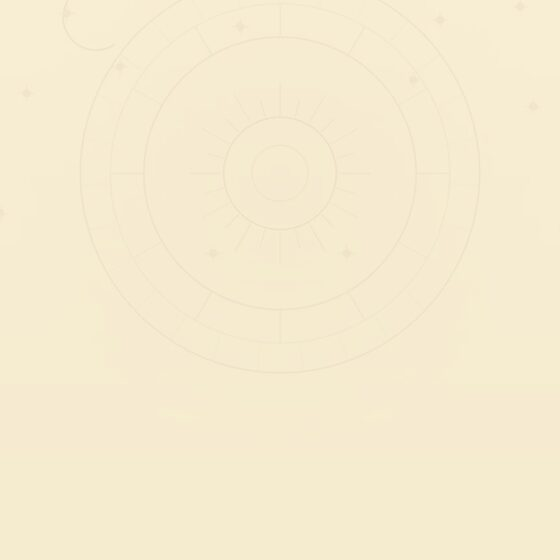
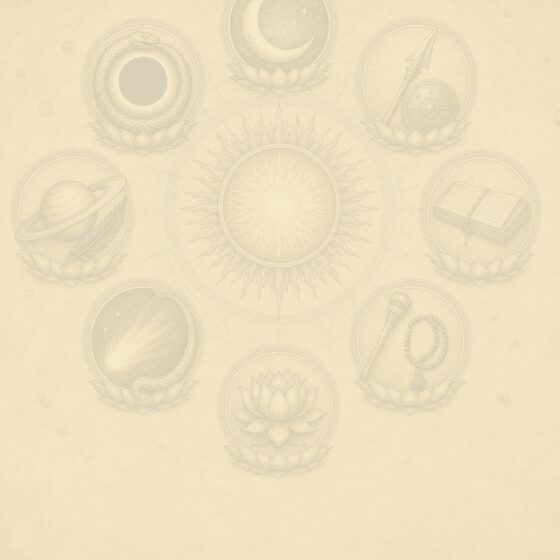
Widgets: Navagraha art for Panchang, per-source wash
The celestial-almanac sketch was so pale it vanished behind the Panchang
widget's text. Switch to the Navagraha sketch, and let a source set its
own lighter wash (18%) so darker art still clears the 4.5:1 text gate.

Claude-Session: https://claude.ai/code/session_01WMtQQBBQnW4wEPpAHEfb1T

diff --git a/mobile/src/widgets/catalog.ts b/mobile/src/widgets/catalog.ts
@@ -73,10 +73,14 @@ export const WIDGET_BACKGROUND_DIMENSIONS: Record<WidgetBackgroundSize, readonly
   large: [560, 560],
 };
 
-/** The source sketch (in `assets/backgrounds/`) each content's plates are cut from, and where its subject sits vertically. */
-export const WIDGET_BACKGROUND_SOURCES: Record<WidgetContent, { file: string; focusY: number }> = {
+/**
+ * The source sketch (in `assets/backgrounds/`) each content's plates are cut from,
+ * where its subject sits vertically, and — for a darker sketch — a lighter wash than
+ * the generator's default so it still clears the 4.5:1 text gate.
+ */
+export const WIDGET_BACKGROUND_SOURCES: Record<WidgetContent, { file: string; focusY: number; wash?: number }> = {
   verse: { file: 'deity-krishna-bansuri.webp', focusY: 0.32 },
-  panchang: { file: 'panchang-celestial-almanac.webp', focusY: 0.34 },
+  panchang: { file: 'deity-navagraha-icons.webp', focusY: 0.5, wash: 0.18 },
   japam: { file: 'category-japam-mala.webp', focusY: 0.55 },
 };
 

diff --git a/design.md b/design.md
@@ -2809,7 +2809,7 @@ because they are different concerns that happen to agree today.
 
 **Native targets.** A real WidgetKit **app extension** target (`VedanshWidgets`, bundle id `…vedansh.widgets`, iOS 16+) generated by the CNG config plugins (`mobile/plugins/withHomeWidgets.js`, `withHomeWidgetsIos.js`, sources under `mobile/plugins/home-widgets/`), with App Group entitlements on both app + extension and the four-language serif faces (Noto Serif Devanagari/Gujarati/Kannada + Inter, 500/600) copied into the extension. Android ships an AppWidget provider + RemoteViews under the same plugin. `mobile/ios/` is prebuild output (gitignored) — the plugin is the source of truth.
 
-**Background art — one plate per size, flat parchment on any doubt (Oct 2026).** Every home-screen cell draws a faded sketch from the app's own `assets/backgrounds/` behind its text: Verse → `deity-krishna-bansuri`, Panchang → `panchang-celestial-almanac`, Japam → `category-japam-mala`. Each (content, size) has its **own pre-cropped plate** — small 256×256, wide 560×260, large 560×560 — so no platform stretches a square onto a wide card. `scripts/build-widget-backgrounds.mts` (ImageMagick) cuts them into `mobile/assets/widget-backgrounds/vedansh_widget_bg_<content>_<size>.jpg`. It removes the sketch's burnt border (8 % inset), centres the crop on the subject (`WIDGET_BACKGROUND_SOURCES.focusY`), and washes the sketch onto `parchmentSoft` at 22 %. The plates are therefore opaque and need no runtime overlay. The script refuses to write a plate where `ink`/`inkMuted`/`saffronDeep` fall below **4.5:1** on its darkest glyph-sized area; the shipped worst case is `inkMuted` at 4.64:1. Sizes and sources live once in `widgets/catalog.ts` (`WIDGET_BACKGROUND_DIMENSIONS`, `widgetBackgroundPlates()`). Lock Screen families get no art.
+**Background art — one plate per size, flat parchment on any doubt (Oct 2026).** Every home-screen cell draws a faded sketch from the app's own `assets/backgrounds/` behind its text: Verse → `deity-krishna-bansuri`, Panchang → `deity-navagraha-icons` (the sun, moon and planets a Panchang reckons by; the earlier `panchang-celestial-almanac` was too pale to read as art), Japam → `category-japam-mala`. Each (content, size) has its **own pre-cropped plate** — small 256×256, wide 560×260, large 560×560 — so no platform stretches a square onto a wide card. `scripts/build-widget-backgrounds.mts` (ImageMagick) cuts them into `mobile/assets/widget-backgrounds/vedansh_widget_bg_<content>_<size>.jpg`. It removes the sketch's burnt border (8 % inset), centres the crop on the subject (`WIDGET_BACKGROUND_SOURCES.focusY`), and washes the sketch onto `parchmentSoft` at 22 % (a darker sketch sets its own lighter `wash` — Navagraha 18 %). The plates are therefore opaque and need no runtime overlay. The script refuses to write a plate where `ink`/`inkMuted`/`saffronDeep` fall below **4.5:1** on its darkest glyph-sized area; the shipped worst case is `inkMuted` at 4.62:1 (Panchang large). Sizes and sources live once in `widgets/catalog.ts` (`WIDGET_BACKGROUND_DIMENSIONS`, `widgetBackgroundPlates()`). Lock Screen families get no art.
 - **The art is optional everywhere, and every failure falls back to the shipped flat card.** iOS (`WidgetArt` in `VedanshWidgets.swift`) loads the plate from the extension bundle only for `systemSmall/Medium/Large`, only in `widgetRenderingMode == .fullColor` (iOS 18 tinted Home Screen and StandBy-at-night keep plain parchment), and only behind real content. Recovery/refresh cards stay plain. A missing or undecodable file, or one over the family's pixel budget (= the plate's own size), returns nil. That budget matters: WidgetKit refuses to archive an image larger than the cell's pixel area and the whole widget renders blank, so each plate stays under the smallest iOS 16 cell of its family at @2x. Android layouts are a `FrameLayout` root (`clipToOutline` on the rounded parchment shape) holding a `widget_art` `ImageView` (`centerCrop`, 1 dp inset so the gold hairline stays visible) that is **GONE in XML**. The provider shows it only on API 31+ (older roots cannot clip to the rounded outline), picks small/wide/large by the same <180 dp / ≥180 dp classes as the text, and hides it explicitly in `recovery()` because the launcher reapplies onto the previous view tree. The plugins copy the folder into the extension's Resources phase and `res/drawable-nodpi/`. The Widget Gallery draws the same plate (at the kind's recommended size) behind each preview card (`ImageBackground`, `testID="widget-art-{content}"`).
 
 **Design compliance (§2/§3/§9).** The in-app gallery (`WidgetGalleryScreen`) draws colours from `useTheme()`, geometry from the shared `spacing`/`radii` scales (preview cards use the `radii.lg` card corner, the CTA is a `radii.pill`), and the preview eyebrow from the shared **`eyebrowTextStyle(lang)`** helper (§48) — italic Cormorant + tracking for en, script serif with **no** tracking for hi/gu/kn, so the Devanagari shirorekha is never split. The preview cards' facsimile body/headline sizes are layout-tuned to mirror the OS widget (like the §54 ShareCard) and stay ≥10 pt. On the native side, theme token values are mirrored into the extension through **one reviewed mapping** (`WidgetTheme` in `VedanshWidgets.swift` — `parchmentSoft`/`ink`/`inkMuted`/`saffronDeep`/`gold`, not scattered `Color(red:…)` literals; the Android RemoteViews layout mirrors the same hex). Because the widget forces a fixed light `parchmentSoft` container background (with or without the washed plate above), **every glyph is given an explicit token colour** — `ink` for titles/verse/numerals, `inkMuted` for source/metadata/round lines, `saffronDeep` for eyebrows, `gold` for the ॐ brand — and native text **never** falls back to SwiftUI's scheme-adaptive `.primary`/`.secondary`, which would invert to light shades in dark mode (invisible on the cream) and, even in light mode, render `.secondary` as a sub-AA washed-out gray. Section-label eyebrows render in the script serif for hi/gu/kn (Inter for en); text on terracotta-tinted surfaces uses `avoidDeep`. Meaningful widget text stays **≥10 pt** (labels that can't fit are removed, not shrunk); numerals/times/status labels use a non-italic **≥600** face — italic Cormorant is limited to short prose flourishes; state is never colour-only (the streak carries a number/label, avoid windows carry their names); the verse has a deterministic two-line fit with the full text in the accessibility label, and large-text snapshots must not clip Devanagari matras.

diff --git a/wiki/subsystems/home-widgets.md b/wiki/subsystems/home-widgets.md
@@ -30,7 +30,7 @@ Android stores the complete document as one synchronously committed SharedPrefer
 
 Deep links are exact and shared by warm/cold starts: verse links carry source/chapter/index, Panchang links carry the represented civil date, and Japam links carry a known mantra id or fall back to the Japam library. `App.tsx` resolves a cold initial widget URL alongside the font gate; `widgetStartTarget` maps the parsed kind-based `WidgetDeepLinkTarget` to a shared `StartTarget` (`navigation/startTarget.ts`), which becomes the `NavigationContainer`'s `initialState`, so the target screen is the first one committed and Home never mounts as an intermediate screen. A Panchang landing also awaits `preloadPanchangStack()` first, so the cold path evaluates that lazy chunk off the render path and a chunk failure lands on Home rather than a stuck screen (see [[notifications]]). **The Panchang and Japam widget links used to be passed as the tab's `initialParams` instead, which React Navigation re-consumed on every return to that tab — each time pushing another `PanchangHome` (a full engine solve) until the tap appeared to land nowhere and the app froze (Sept 2026); see [[notifications]] for the rule.** The notification tap that launched the app is read in the same race and yields the same target shape for every notification family (see [[notifications]]); a widget URL wins and never waits on that read. Warm links still dispatch through the shared handler after navigation is ready. The in-app Widget Gallery provides previews, recovery text, platform instructions, and Android pin actions; it does not claim to prove launcher rendering.
 
-Every home-screen cell (not Lock Screen) draws a faded sketch plate behind its text. There is one pre-cropped JPEG per (content, size), generated by `scripts/build-widget-backgrounds.mts` from `assets/backgrounds/` into `assets/widget-backgrounds/`, already washed onto `parchmentSoft`. The plate sizes in `catalog.ts` `WIDGET_BACKGROUND_DIMENSIONS` double as the iOS pixel budget. The art is optional on both platforms: iOS `WidgetArt.image` returns nil (plain parchment) outside `systemSmall/Medium/Large`, outside `.fullColor` rendering, for recovery cards, or for a missing/undecodable/over-budget file. Android's `widget_art` ImageView is GONE in XML and shown only by `applyArt` on API 31+.
+Every home-screen cell (not Lock Screen) draws a faded sketch plate behind its text. There is one pre-cropped JPEG per (content, size), generated by `scripts/build-widget-backgrounds.mts` from `assets/backgrounds/` into `assets/widget-backgrounds/`, already washed onto `parchmentSoft` (22 % default; a darker source carries its own `wash` in `WIDGET_BACKGROUND_SOURCES`, e.g. Panchang's Navagraha at 18 %). The plate sizes in `catalog.ts` `WIDGET_BACKGROUND_DIMENSIONS` double as the iOS pixel budget. The art is optional on both platforms: iOS `WidgetArt.image` returns nil (plain parchment) outside `systemSmall/Medium/Large`, outside `.fullColor` rendering, for recovery cards, or for a missing/undecodable/over-budget file. Android's `widget_art` ImageView is GONE in XML and shown only by `applyArt` on API 31+.
 
 ## Dependencies
 
@@ -54,6 +54,6 @@ Every home-screen cell (not Lock Screen) draws a faded sketch plate behind its t
 - `twoLineExcerpt` is a **small-cell** budget (88 characters ≈ 4 lines at 13 pt), not a payload-wide summary. The wide verse cell rendered it too and so ellipsized any verse past the cap on a card sized for three 16 pt lines — BG 5.12 lost its closing pada with the third line empty. Only the iOS small / Android narrow (<180 dp) cell may read `excerpt`; everything wider reads `lines`. `catalog.test.ts` pins that in both native sources. Generally: never apply a size-specific cap on the shared payload path — put the full text in the payload and let the widest consumer decide.
 - Section eyebrows (`आज का श्लोक`, `जप-साधना`) are not in the payload, so both native surfaces carry their own four-language literals. Anything else user-visible must come from the payload, which is always fully localized.
 - `getVersePool()` is a bulk compatibility/test API, not a production startup API. Home routine completion, widget planning, daily reminders, random Daily Bhakti entry, and exact deep-link lookup must use manifest positions, `getVersePoolSize()`, `getVerseAtPoolIndex()`, or `findVerse()` so they load at most the selected chapter.
-- **A widget image larger than the cell's pixel area makes WidgetKit drop the whole render (blank widget), not just the image.** That is why the plates are small (256², 560×260, 560²: under the smallest iOS 16 cell at @2x) and why `WidgetArt` refuses anything over its family budget. Upscaled on @3x phones they are slightly soft; that is accepted for a 22 % watermark. Regenerate with the script; never drop in a bigger plate by hand.
+- **A widget image larger than the cell's pixel area makes WidgetKit drop the whole render (blank widget), not just the image.** That is why the plates are small (256², 560×260, 560²: under the smallest iOS 16 cell at @2x) and why `WidgetArt` refuses anything over its family budget. Upscaled on @3x phones they are slightly soft; that is accepted for a ~20 % watermark. Regenerate with the script; never drop in a bigger plate by hand.
 - **Android art needs explicit hiding on every non-art render.** The launcher reapplies a same-layout RemoteViews onto the previous view tree, so `recovery()` must `setViewVisibility(widget_art, GONE)` or a stale plate survives behind the refresh card. Below API 31 the root cannot clip to its rounded outline, so those devices keep the flat card.
 - The plates' contrast gate lives in the generator, not a test (Node has no JPEG decoder here). `catalog.test.ts` pins presence, exact SOF dimensions, the iOS budget constants, the Android drawable references and the gallery index. A wash or source change must re-run the script, which fails below 4.5:1 for `ink`/`inkMuted`/`saffronDeep`.

diff --git a/wiki/log.md b/wiki/log.md
@@ -287,3 +287,4 @@ Prototype option B chosen: the four small vaas tiles became two cards (compass t
 ## [2026-09-29] gap | Bhadra (vishti karana) is not modelled — Holika Dahan/Holi 2026 diverge; no Holika Dahan rule exists at all.
 ## [2026-09-29] ingest | Added `maha-navami` (madhyahna; Drik 2024–2029 pinned). Durga Ashtami stays the Ashvin `masik-durgashtami` day.
 ## [2026-10-03] ingest | Home widgets gained per-size background art: generated, parchment-washed plates (`assets/widget-backgrounds/`, `scripts/build-widget-backgrounds.mts`, 4.5:1 contrast gate), optional on iOS (`WidgetArt`, fullColor + pixel-budget guard) and Android (`widget_art` GONE by default, API 31+), and drawn behind gallery previews. Recorded the WidgetKit oversize-image blank-render trap and the RemoteViews reapply trap. home-widgets.md updated.
+## [2026-10-03] ingest | Panchang widget art switched from the near-invisible celestial-almanac sketch to Navagraha; sources may now set a per-source `wash` so darker sketches still clear the 4.5:1 gate.
